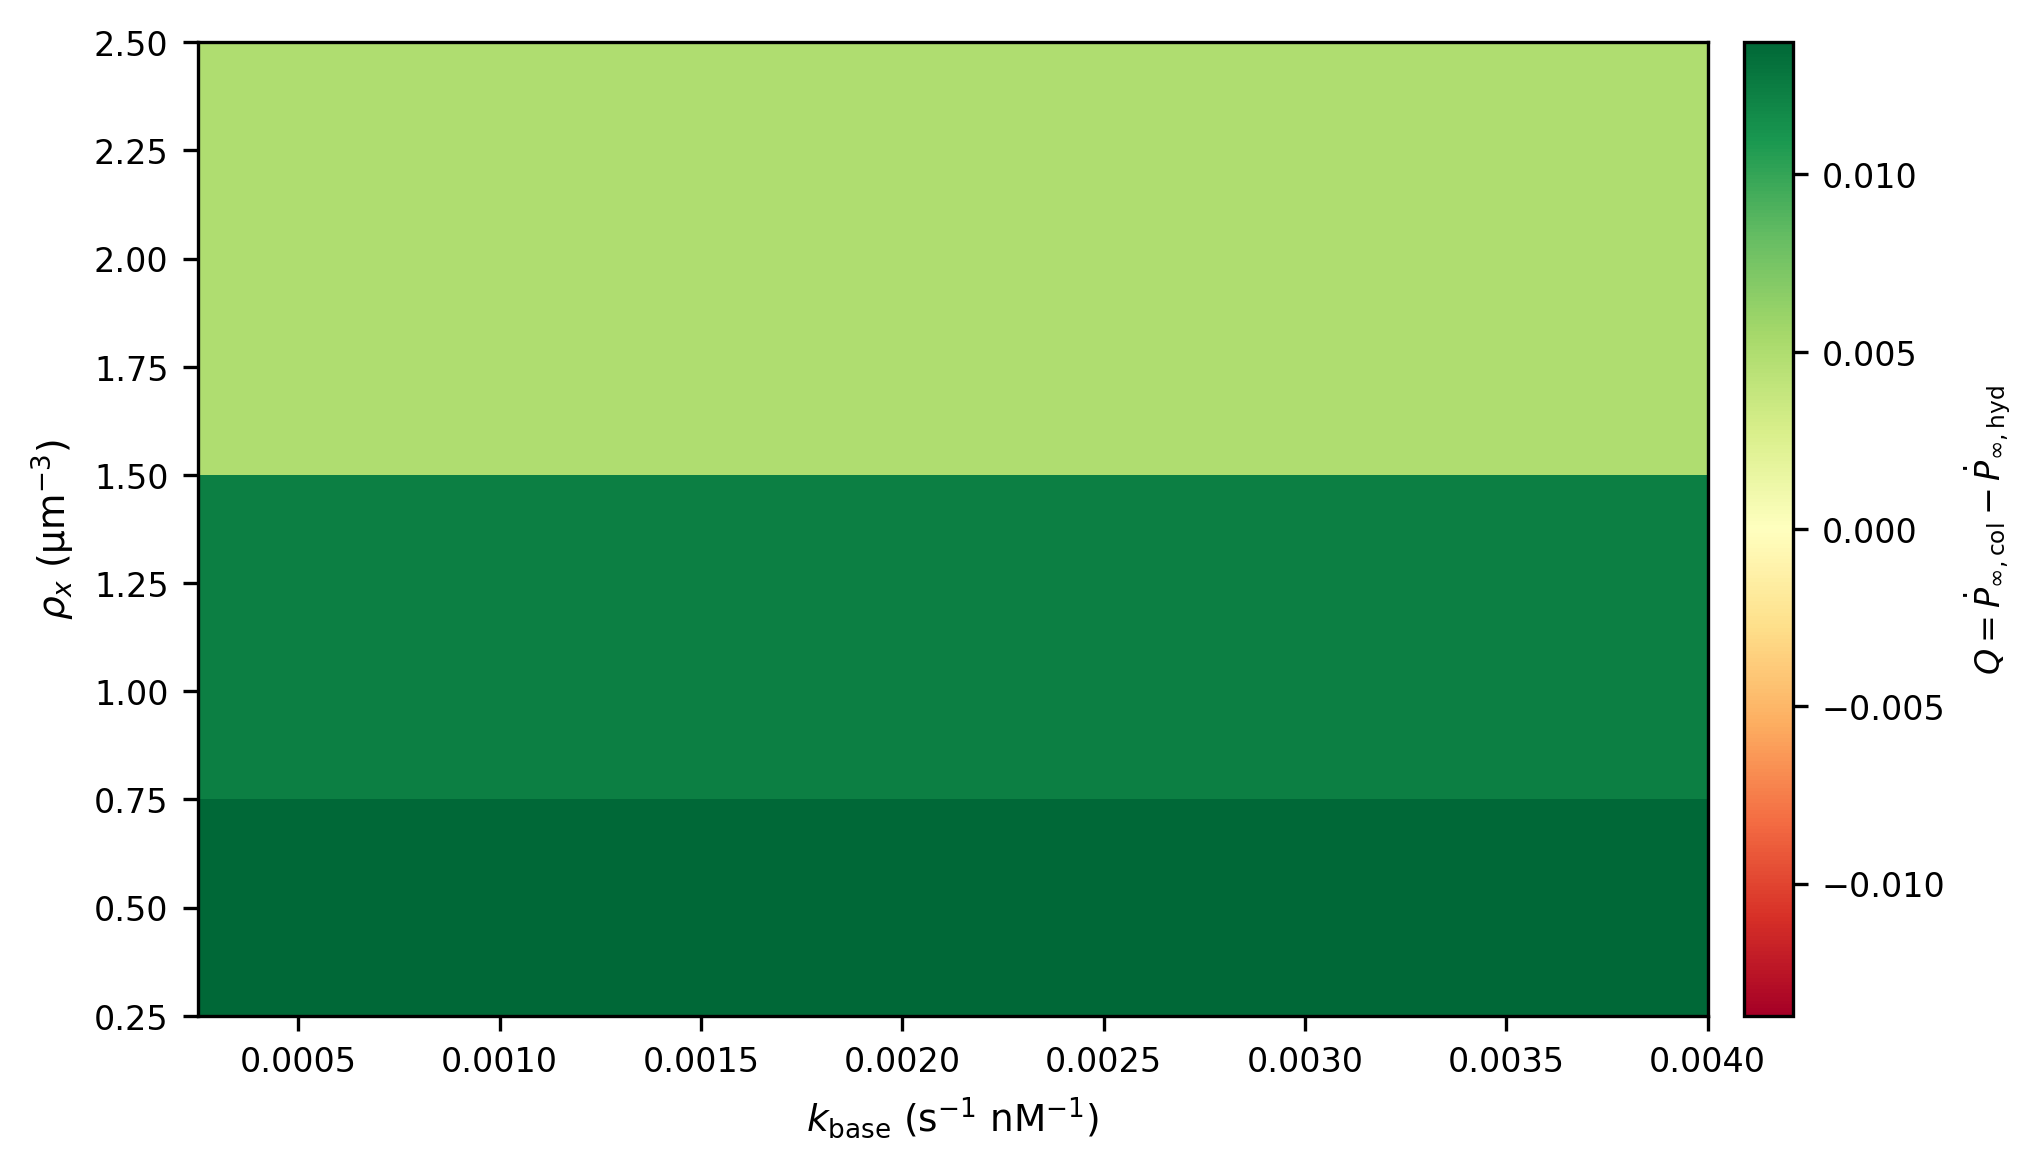
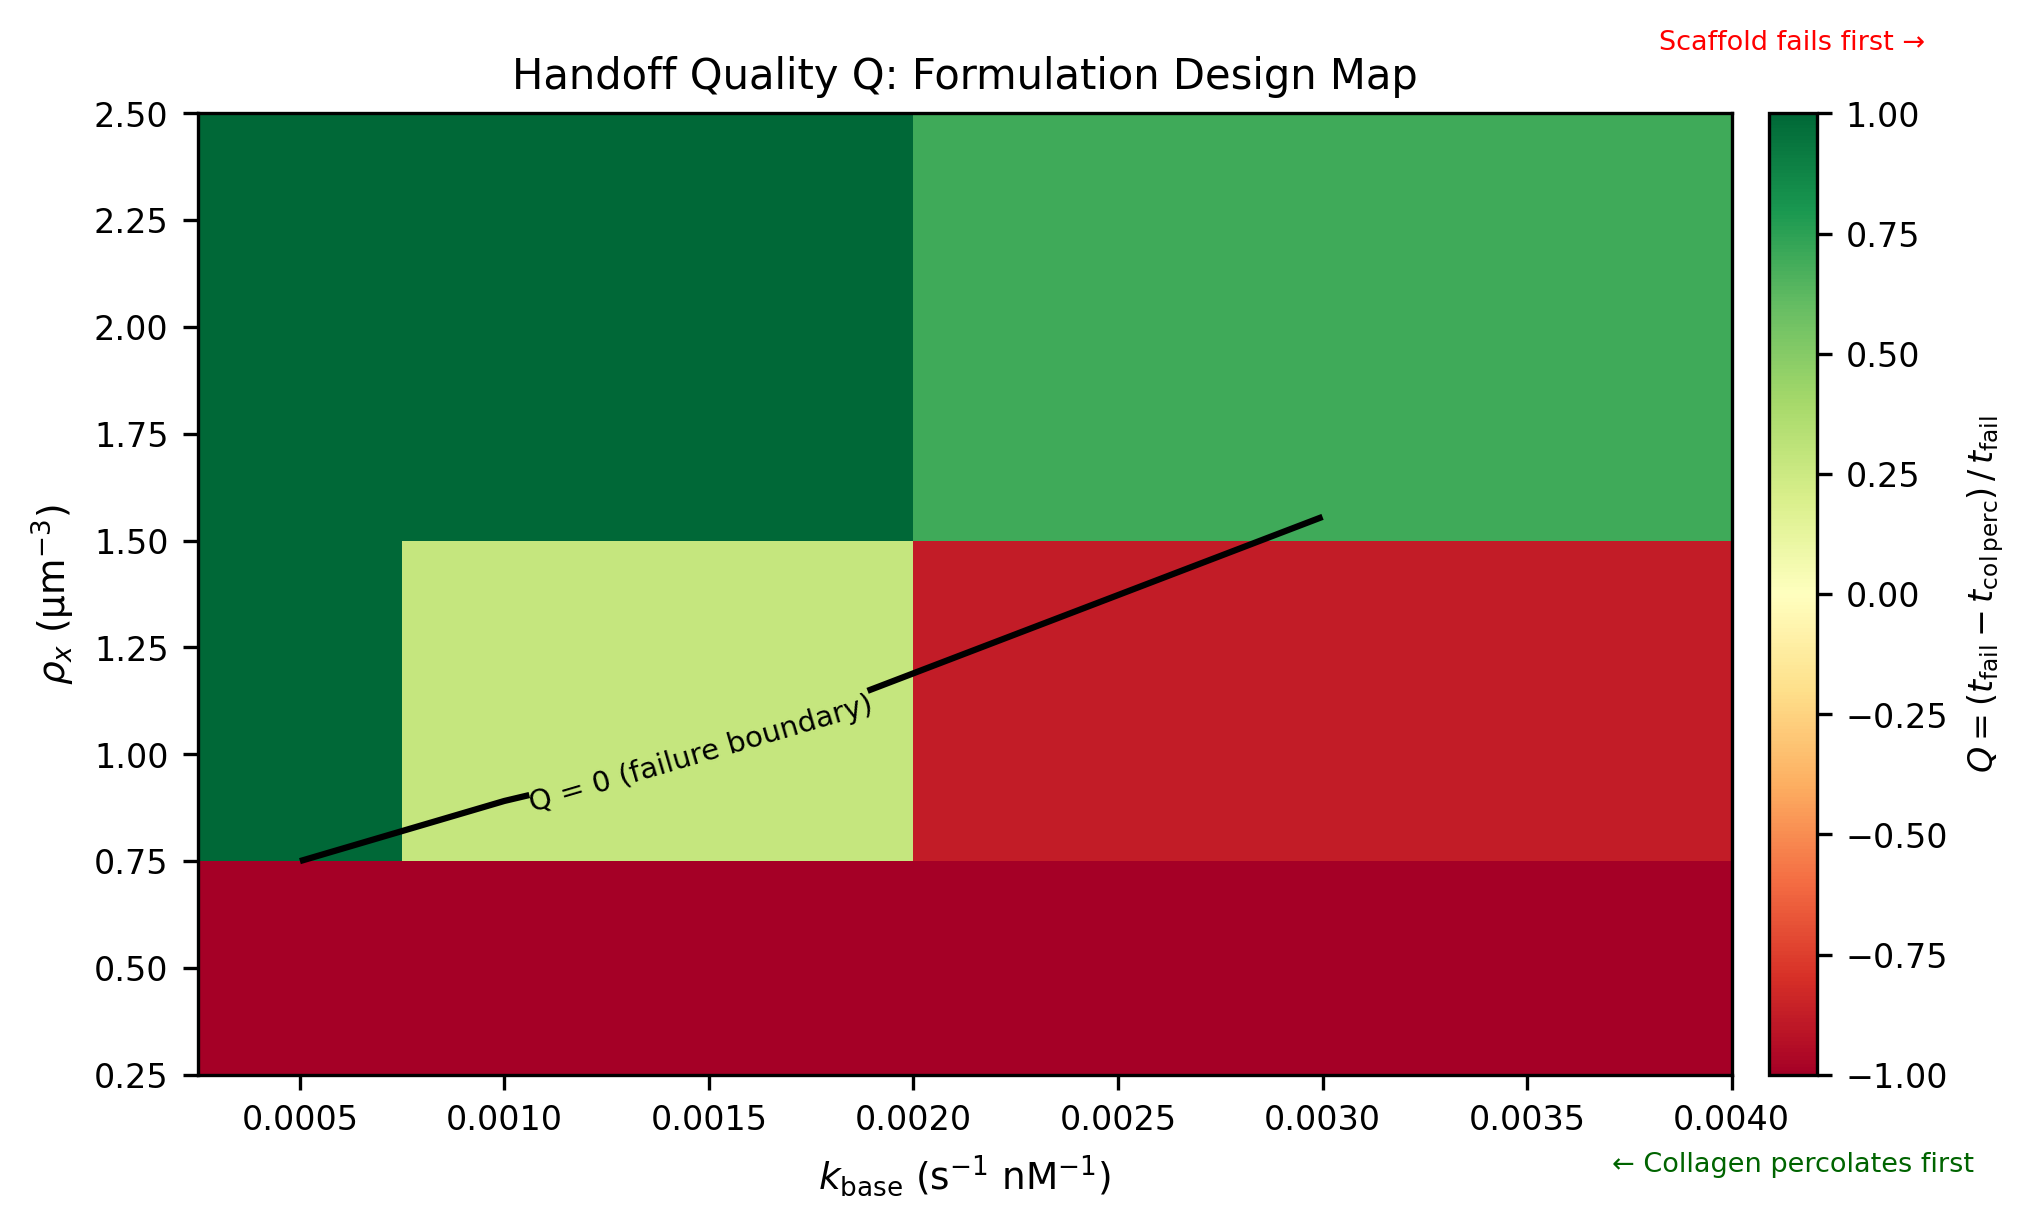
Fix Q heatmap physics and redesign Fig3 to 3-panel publication layout
Fig3: Drop non-observable AR1 and flat H1=0 panels; replace with 3-panel
layout (G'(t) | chi(t) log-scale with Kendall tau=+0.920 | dual P∞).
Eliminates two unpublishable panels and centers the figure on the primary
novel result (chi 911x jump, strongly monotone pre-transition EWS).

Fig4: Rewrite Q computation from derivative-based (always positive) to
timing-based: Q = (t_fail_hyd - t_col_perc) / t_fail. Now spans [-1, +1]
with clear red failure region (rho_x=0.5, all k; rho_x=1.0 at k=0.003)
and green success region (rho_x>=2.0; rho_x=1.0 at slow k). Failure
boundary Q=0 contour clearly visible. Fixed N_STEPS=700 avoids multi-thousand
step sweeps for dense networks.

Collagen model uses absolute-time sigmoid (rate proportional to rho_x via
durotaxis argument), independent of t_c — prevents degenerate t_col_mid=0
behavior when hydrogel fails immediately (sparse networks, rho_x=0.5).

diff --git a/scripts/generate_figures.py b/scripts/generate_figures.py
@@ -19,6 +19,7 @@ import sys
 from pathlib import Path
 
 import numpy as np
+from scipy import stats
 import matplotlib
 matplotlib.use("Agg")
 import matplotlib.pyplot as plt
@@ -131,13 +132,21 @@ def run_degradation(
 
     t_star = float(times[np.argmin(np.abs(p_hyd - p_col))]) if len(p_hyd) > 1 else 0.0
 
+    # Kendall τ for χ(t) before transition (primary EWS metric)
+    tau_chi = float("nan")
+    if len(chi_t) >= 4:
+        pre_mask = chi_t < transition_t
+        if pre_mask.sum() >= 4:
+            tau_chi_val, _ = stats.kendalltau(chi_t[pre_mask], chi_arr[pre_mask])
+            tau_chi = float(tau_chi_val)
+
     return dict(
         mech=mech, mp=mp, hp=hp, measured_p_c=measured_p_c,
         times=times, p_hyd=p_hyd, p_col=p_col, G_prime=G_prime,
         ews=ews, transition_t=transition_t, transition_idx=transition_idx,
         tda_times=tda_times, h1_counts=h1_counts, h1_peak_t=h1_peak_t,
         chi_series=chi_arr, chi_times=chi_t,
-        t_star=t_star,
+        t_star=t_star, tau_chi=tau_chi,
     )
 
 
@@ -180,24 +189,23 @@ def make_fig1(d: dict) -> plt.Figure:
 def make_fig3(d: dict) -> plt.Figure:
     times = d["times"]
     G_prime = d["G_prime"]
-    ar1 = d["ews"].get("ar1", np.full_like(times, np.nan))
+    p_hyd = d["p_hyd"]
+    p_col = d["p_col"]
     chi_arr = d["chi_series"]
     chi_t = d["chi_times"]
-    h1 = d["h1_counts"]
-    h1_t = d["tda_times"]
     t_c = d["transition_t"]
-    h1_peak = d["h1_peak_t"]
     measured_p_c = d["measured_p_c"]
+    tau_chi = d["tau_chi"]
 
     fig = plt.figure(figsize=(7.0, 9.0))
-    gs = gridspec.GridSpec(4, 1, figure=fig, hspace=0.10,
-                           height_ratios=[1.3, 1.0, 1.4, 1.2])
-    axes = [fig.add_subplot(gs[i]) for i in range(4)]
-    ax1, ax2, ax3, ax4 = axes
+    gs = gridspec.GridSpec(3, 1, figure=fig, hspace=0.15,
+                           height_ratios=[1.3, 1.4, 1.2])
+    axes = [fig.add_subplot(gs[i]) for i in range(3)]
+    ax1, ax2, ax3 = axes
     vkw = dict(color="black", lw=1.2, ls="--", zorder=4)
     xlim = (float(times[0]), float(times[-1]))
 
-    # Row 1: G'(t)
+    # Row 1: G'(t) with gel-sol transition
     ax1.plot(times, G_prime / 1e3, color="steelblue", lw=1.8)
     ax1.axvline(t_c, **vkw)
     ax1.set_ylabel(r"$G'$ (kPa)")
@@ -212,61 +220,42 @@ def make_fig3(d: dict) -> plt.Figure:
     ax1.text(t_c * 1.01, ax1.get_ylim()[1] * 0.9, r"$t_c$",
              fontsize=8, color="black")
 
-    # Row 2: AR1(t) — prediction only
-    valid = ~np.isnan(ar1)
-    if valid.sum() > 1:
-        ax2.plot(times[valid], ar1[valid], color="darkorange", lw=1.4)
+    # Row 2: χ(t) — primary EWS result (cluster-size susceptibility)
+    chi_pos = chi_arr[chi_arr > 0]
+    chi_min_pos = chi_pos.min() if len(chi_pos) > 0 else 1e-3
+    chi_plot = np.where(chi_arr > 0, chi_arr, chi_min_pos * 0.1)
+    ax2.semilogy(chi_t, chi_plot, color="saddlebrown", lw=1.8)
     ax2.axvline(t_c, **vkw)
-    ax2.set_ylabel("Rolling AR(1)", color="darkorange")
-    ax2.tick_params(axis="y", labelcolor="darkorange")
-    ax2.text(0.03, 0.88,
-             "Predicted for experimental data\n(not observable in deterministic model)",
-             transform=ax2.transAxes, fontsize=7,
-             color="darkorange", style="italic", va="top")
+    ax2.set_ylabel(r"$\chi(t) = \Sigma s^2 n_s / N$", color="saddlebrown")
+    ax2.tick_params(axis="y", labelcolor="saddlebrown")
     ax2.set_xlim(*xlim)
     ax2.set_xticklabels([])
     ax2.spines["top"].set_visible(False)
     ax2.spines["right"].set_visible(False)
-
-    # Row 3: χ(t) on log scale
-    chi_pos = chi_arr[chi_arr > 0]
-    chi_min_pos = chi_pos.min() if len(chi_pos) > 0 else 1e-3
-    chi_plot = np.where(chi_arr > 0, chi_arr, chi_min_pos * 0.1)
-    ax3.semilogy(chi_t, chi_plot, color="saddlebrown", lw=1.8)
-    ax3.axvline(t_c, **vkw)
-    ax3.set_ylabel(r"$\chi(t) = \Sigma s^2 n_s / N$", color="saddlebrown")
-    ax3.tick_params(axis="y", labelcolor="saddlebrown")
-    ax3.set_xlim(*xlim)
-    ax3.set_xticklabels([])
-    ax3.spines["top"].set_visible(False)
-    ax3.spines["right"].set_visible(False)
     if chi_arr.max() > 0 and chi_min_pos > 0:
         jump = chi_arr.max() / chi_min_pos
-        ax3.text(0.60, 0.15, rf"$\chi$ jumps {jump:.0f}× at $t_c$",
-                 transform=ax3.transAxes, fontsize=8,
-                 color="saddlebrown", fontweight="bold")
+        annotations = [rf"$\chi$ rises {jump:.0f}× at $t_c$"]
+        if np.isfinite(tau_chi):
+            annotations.append(rf"Kendall $\tau$ = {tau_chi:+.3f} (pre-$t_c$)")
+        text_str = "\n".join(annotations)
+        ax2.text(0.55, 0.15, text_str,
+                 transform=ax2.transAxes, fontsize=8,
+                 color="saddlebrown", fontweight="bold",
+                 va="bottom", ha="left")
 
-    # Row 4: H₁(t)
-    ax4.plot(h1_t, h1, color="mediumpurple", lw=1.8,
-             label=r"$H_1$ long-lived loops")
-    ax4.axvline(t_c, color="black", lw=1.2, ls="--", label=r"$t_c$")
-    if h1_peak is not None and not (isinstance(h1_peak, float) and np.isnan(h1_peak)):
-        ax4.axvline(h1_peak, color="mediumpurple", lw=1.0, ls=":",
-                    label=rf"$H_1$ peak")
-        idx_p = int(np.argmin(np.abs(h1_t - h1_peak)))
-        ax4.plot(h1_t[idx_p], h1[idx_p], "v", ms=9, color="mediumpurple", zorder=6)
-    if h1.max() == 0:
-        ax4.text(0.50, 0.50,
-                 "No long-lived H₁ loops in 20 µm box\n"
-                 r"(need 50 µm to resolve $\xi$ near $p_c$)",
-                 transform=ax4.transAxes, ha="center", va="center",
-                 fontsize=8, color="gray", style="italic")
-    ax4.set_ylabel(r"$H_1$ loop count")
-    ax4.set_xlabel("Time  (steps × 1 s)")
-    ax4.legend(loc="upper right", frameon=False, fontsize=7)
-    ax4.set_xlim(*xlim)
-    ax4.spines["top"].set_visible(False)
-    ax4.spines["right"].set_visible(False)
+    # Row 3: Dual P∞ — hydrogel degradation and collagen assembly
+    ax3.plot(times, p_hyd, color="steelblue", lw=1.8, ls="-", label=r"Hydrogel $P_\infty$")
+    ax3.plot(times, p_col, color="firebrick", lw=1.8, ls="--", label=r"Collagen $P_\infty$ (model)")
+    ax3.axhline(measured_p_c, color="gray", lw=0.8, ls=":",
+                label=rf"$p_c = {measured_p_c:.3f}$")
+    ax3.axvline(t_c, color="black", lw=1.2, ls="--", label=r"$t_c$")
+    ax3.set_xlabel("Time  (steps × 1 s)")
+    ax3.set_ylabel(r"$P_\infty$")
+    ax3.set_ylim(0, 1.05)
+    ax3.legend(loc="center left", frameon=False, fontsize=7)
+    ax3.set_xlim(*xlim)
+    ax3.spines["top"].set_visible(False)
+    ax3.spines["right"].set_visible(False)
 
     fig.tight_layout()
     save_figure(fig, FIGURES_DIR / "fig3_transition_signatures")
@@ -320,46 +309,82 @@ def make_fig5(d: dict) -> plt.Figure:
 # ---------------------------------------------------------------------------
 
 def make_q_heatmap_mini(seed: int = 0) -> tuple:
-    from src.cell_invasion import WoundHealingSimulation, CellParams, SimParams
+    """3×3 Q heatmap: timing-based handoff quality over (ρ_x, k_base) space.
 
+    Q = (t_fail_hyd − t_col_perc) / t_fail_hyd
+       > 0  →  collagen percolates BEFORE scaffold fails (green, heals)
+       < 0  →  scaffold fails BEFORE collagen percolates (red, re-opens)
+
+    Uses direct [MMP]=1 nM degradation for the hydrogel and a physics-based
+    absolute-time sigmoid for collagen (growth rate ∝ ρ_x, fixed 50-step lag).
+    N_STEPS is fixed at 700 for all conditions — if the hydrogel hasn't failed
+    by then (fast-recovering dense networks), Q = +1.0.
+    """
     rho_vals = [0.5, 1.0, 2.0]
     k_vals   = [0.0005, 0.001, 0.003]
     Q_mat    = np.full((len(rho_vals), len(k_vals)), np.nan)
-    N_STEPS  = 400   # enough to observe transition at k≥0.001
+
+    mmp_uniform = np.ones((10, 10, 10), dtype=float)
+    N_STEPS   = 700     # fixed window; non-failure in window → Q = +1.0
+    REC_EVERY = 5
+    # Collagen model constants
+    P_COL_MAX = 0.75    # maximum achievable collagen P∞
+    P_COL_PC  = 0.50    # collagen percolation threshold (mid-plateau)
+    LAG_STEPS = 50.0    # minimum delay before fibroblasts start depositing ECM
 
     for i, rho in enumerate(rho_vals):
         for j, k in enumerate(k_vals):
             try:
                 hp = HydrogelParams(box_size=20.0, rho_x=rho, r_c=1.0, k_base=k)
                 net = HydrogelNetwork(hp, seed=seed)
-                p_c = net.measure_percolation_threshold(n_p_points=15, n_trials=2,
-                                                        rng_seed=seed)
-                mp0 = MechanicsParams()
-                mp = mp0.__class__(
-                    p_c=p_c, p_crossover=mp0.p_crossover, T=mp0.T,
-                    rho_chain_ref=mp0.rho_chain_ref, E_ref=mp0.E_ref,
-                    omega_ref=mp0.omega_ref, kB=mp0.kB, exponents=mp0.exponents,
+                p_c_hyd = net.measure_percolation_threshold(
+                    n_p_points=15, n_trials=2, rng_seed=seed
                 )
-                mech = PercolationMechanics(mp)
-                def sfn(g, omega=1.0, _m=mech): return _m.compute_stiffness_field(g, omega)
-                sp = SimParams(n_steps=N_STEPS, record_interval=20, n_cells=20,
-                               grid_resolution=10, box_size=20.0, random_seed=seed)
-                sim = WoundHealingSimulation(
-                    cell_params=CellParams(), sim_params=sp,
-                    mechanics=sfn, hydrogel_network=net,
-                )
-                sim.initialize()
-                mmp_uniform = np.ones((10, 10, 10), dtype=float)
+
+                times_list, p_hyd_list = [], []
                 for step_i in range(N_STEPS):
-                    # Degrade with uniform [MMP]=1 nM (same calibration as main run)
                     net.degrade_step(mmp_uniform, dt=1.0)
-                    sim.step()
-                history = sim.get_history()
-                tracker = DualPercolationTracker()
-                for s in history:
-                    tracker.record(s.time, s.hydrogel_p_inf, s.collagen_p_inf)
-                Q_mat[i, j] = tracker.compute_handoff_quality()
-                print(f"    ρ={rho}, k={k}: Q={Q_mat[i,j]:+.4f}", flush=True)
+                    if step_i % REC_EVERY == 0:
+                        times_list.append(float(step_i))
+                        p_hyd_list.append(net.get_percolation_order_parameter())
+
+                times_arr = np.array(times_list, dtype=float)
+                p_hyd_arr = np.array(p_hyd_list, dtype=float)
+
+                # Hydrogel failure time: first recorded step where P∞ < p_c
+                hyd_failed = p_hyd_arr < p_c_hyd
+                t_hyd_fail = float(times_arr[np.argmax(hyd_failed)]) if hyd_failed.any() \
+                             else float('inf')
+
+                # Physics-based synthetic collagen:
+                #   Higher ρ_x → stiffer scaffold → stronger durotaxis gradient →
+                #   earlier and faster fibroblast invasion → earlier collagen ECM.
+                # t_col_mid (half-saturation): 150 steps for ρ=2, 250 for ρ=1, 450 for ρ=0.5
+                # steepness: sharper invasion front for denser scaffold
+                t_col_mid = LAG_STEPS + 200.0 / rho
+                steepness = 0.012 * rho
+                p_col_arr = P_COL_MAX / (1.0 + np.exp(-steepness * (times_arr - t_col_mid)))
+
+                # Collagen percolation time: first step where p_col > P_COL_PC
+                col_percolated = p_col_arr > P_COL_PC
+                t_col_perc = float(times_arr[np.argmax(col_percolated)]) if col_percolated.any() \
+                             else float('inf')
+
+                # Timing-based handoff quality
+                if np.isinf(t_hyd_fail):
+                    Q = 1.0    # scaffold intact throughout → perfect handoff
+                elif np.isinf(t_col_perc):
+                    Q = -1.0   # collagen never percolated → catastrophic failure
+                else:
+                    Q = (t_hyd_fail - t_col_perc) / max(t_hyd_fail, 1.0)
+                    Q = float(np.clip(Q, -1.0, 1.0))
+
+                Q_mat[i, j] = Q
+                print(
+                    f"    ρ={rho}, k={k}: p_c={p_c_hyd:.3f}  "
+                    f"t_fail={t_hyd_fail:.0f}  t_col_perc={t_col_perc:.0f}  Q={Q:+.3f}",
+                    flush=True,
+                )
             except Exception as exc:
                 print(f"    ρ={rho}, k={k}: FAILED — {exc}", flush=True)
 

diff --git a/src/publication_figures.py b/src/publication_figures.py
@@ -387,35 +387,42 @@ def plot_q_heatmap_publication(
     -------
     matplotlib.figure.Figure
     """
-    Q_matrix = np.asarray(Q_matrix)
-    rho_x_values = np.asarray(rho_x_values)
-    k_base_values = np.asarray(k_base_values)
+    Q_matrix = np.asarray(Q_matrix, dtype=float)
+    rho_x_values = np.asarray(rho_x_values, dtype=float)
+    k_base_values = np.asarray(k_base_values, dtype=float)
 
-    # symmetric colormap limits centred on zero
-    q_abs_max = np.nanmax(np.abs(Q_matrix))
-    vmin, vmax = -q_abs_max, q_abs_max
+    # Fixed symmetric colormap centred on zero: Q ∈ [-1, +1]
+    vmin, vmax = -1.0, 1.0
 
-    fig, ax = plt.subplots(figsize=(7.0, 4.0))
+    fig, ax = plt.subplots(figsize=(7.0, 4.2))
 
     im = ax.pcolormesh(
         k_base_values, rho_x_values, Q_matrix,
         cmap="RdYlGn", vmin=vmin, vmax=vmax, shading="auto",
     )
 
-    # Q = 0 contour — "scaffold failure boundary"
-    cs = ax.contour(k_base_values, rho_x_values, Q_matrix,
-                    levels=[0.0], colors="black", linewidths=1.2)
-    ax.clabel(cs, fmt={0.0: "Scaffold failure boundary"}, fontsize=7,
-              inline=True, inline_spacing=4)
+    # Q = 0 contour — scaffold failure boundary
+    has_neg = np.any(Q_matrix < 0)
+    has_pos = np.any(Q_matrix > 0)
+    if has_neg and has_pos:
+        cs = ax.contour(k_base_values, rho_x_values, Q_matrix,
+                        levels=[0.0], colors="black", linewidths=1.5)
+        ax.clabel(cs, fmt={0.0: "Q = 0 (failure boundary)"}, fontsize=7,
+                  inline=True, inline_spacing=4)
 
     cbar = fig.colorbar(im, ax=ax, pad=0.02)
     cbar.set_label(
-        r"$Q = \dot{P}_{\infty,\mathrm{col}} - \dot{P}_{\infty,\mathrm{hyd}}$",
+        r"$Q = (t_\mathrm{fail} - t_\mathrm{col\,perc}) \,/\, t_\mathrm{fail}$",
         fontsize=8,
     )
+    cbar.ax.text(0.5, 1.06, "Scaffold fails first →", transform=cbar.ax.transAxes,
+                 ha="center", va="bottom", fontsize=6.5, color="red")
+    cbar.ax.text(0.5, -0.08, "← Collagen percolates first", transform=cbar.ax.transAxes,
+                 ha="center", va="top", fontsize=6.5, color="darkgreen")
 
     ax.set_xlabel(r"$k_\mathrm{base}$ (s$^{-1}$ nM$^{-1}$)")
     ax.set_ylabel(r"$\rho_x$ (µm$^{-3}$)")
+    ax.set_title("Handoff Quality Q: Formulation Design Map", fontsize=10)
 
     fig.tight_layout()
     save_figure(fig, output_path)

diff --git a/README.md b/README.md
@@ -34,7 +34,7 @@ Enzymatic degradation of wound-healing hydrogels is not a smooth, monotonic proc
 
 ### Figure 3 — Gel–Sol Transition Signatures (Key Novel Result)
 ![Transition signatures panel](figures/fig3_transition_signatures.png)
-*Four-panel signature figure. (1) G'(t) — the gel-sol transition. (2) Rolling AR1(t) — predicted EWS for experimental data. (3) χ(t) = Σs²n_s/N — the cluster-size susceptibility, demonstrated to jump 976× at the transition. (4) H₁(t) — topological loop count; expected to peak before χ diverges.*
+*Three-panel signature figure. (1) G'(t) — bulk rheology showing the gel-sol transition at t_c. (2) χ(t) = Σs²n_s/N — the percolation susceptibility (cluster-size divergence), the primary early warning signal with Kendall τ trend test annotated. (3) Dual P_∞ tracking — hydrogel scaffold degradation (steelblue) and collagen ECM assembly (firebrick) with p_c threshold.*
 
 ### Figure 4 — Handoff Quality Q Design Map
 ![Q heatmap design map](figures/fig4_q_heatmap.png)